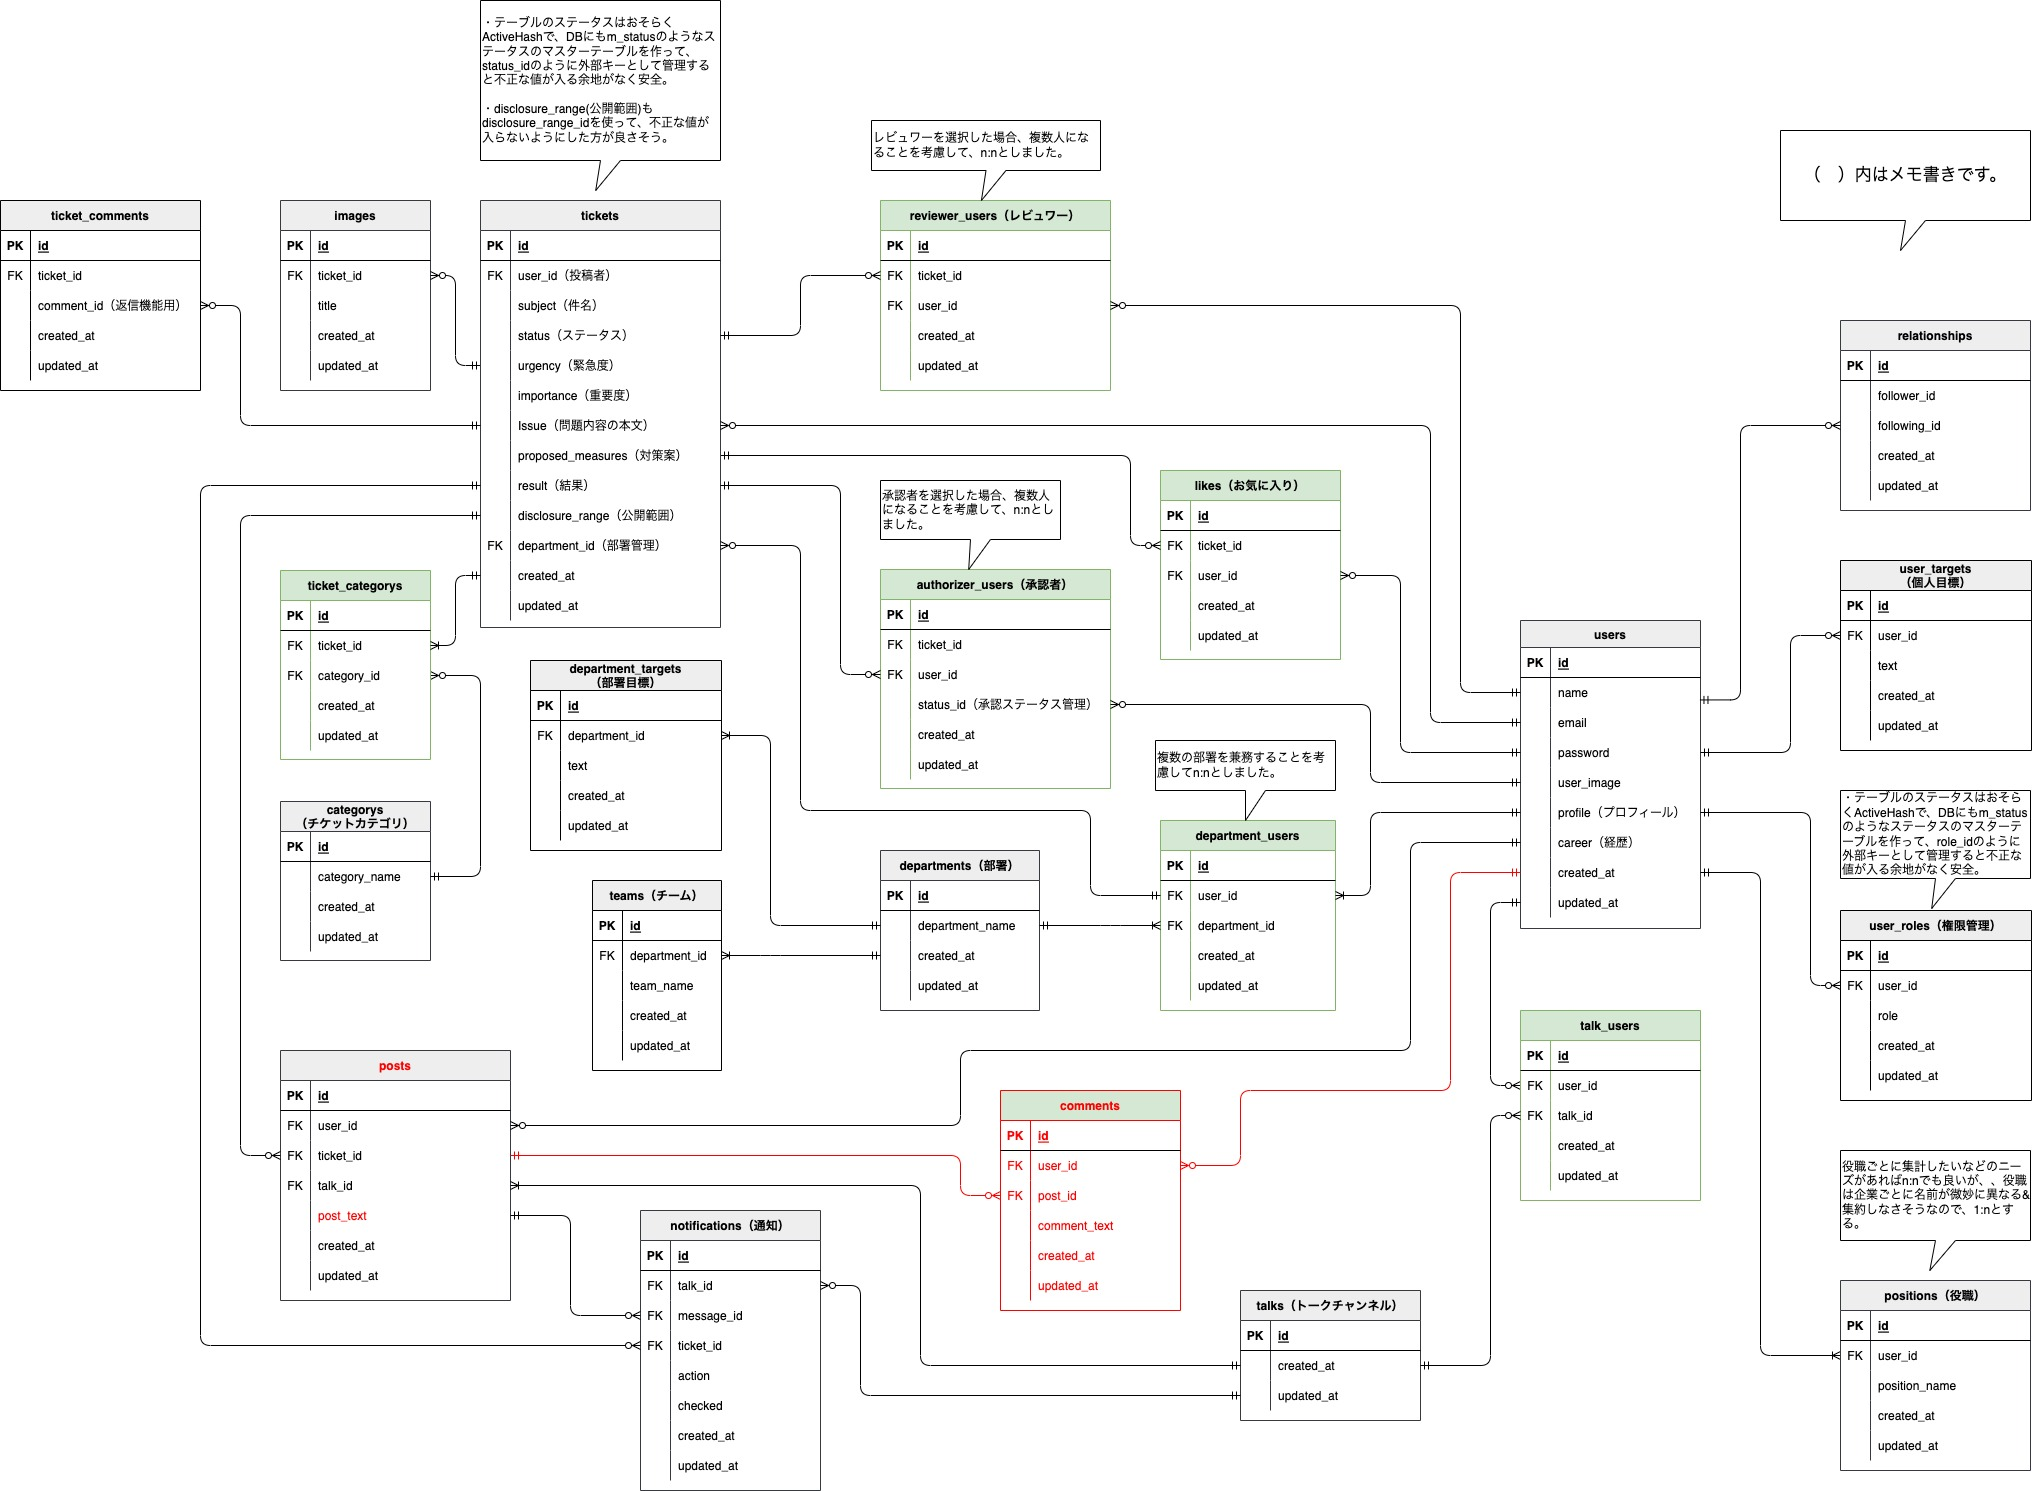
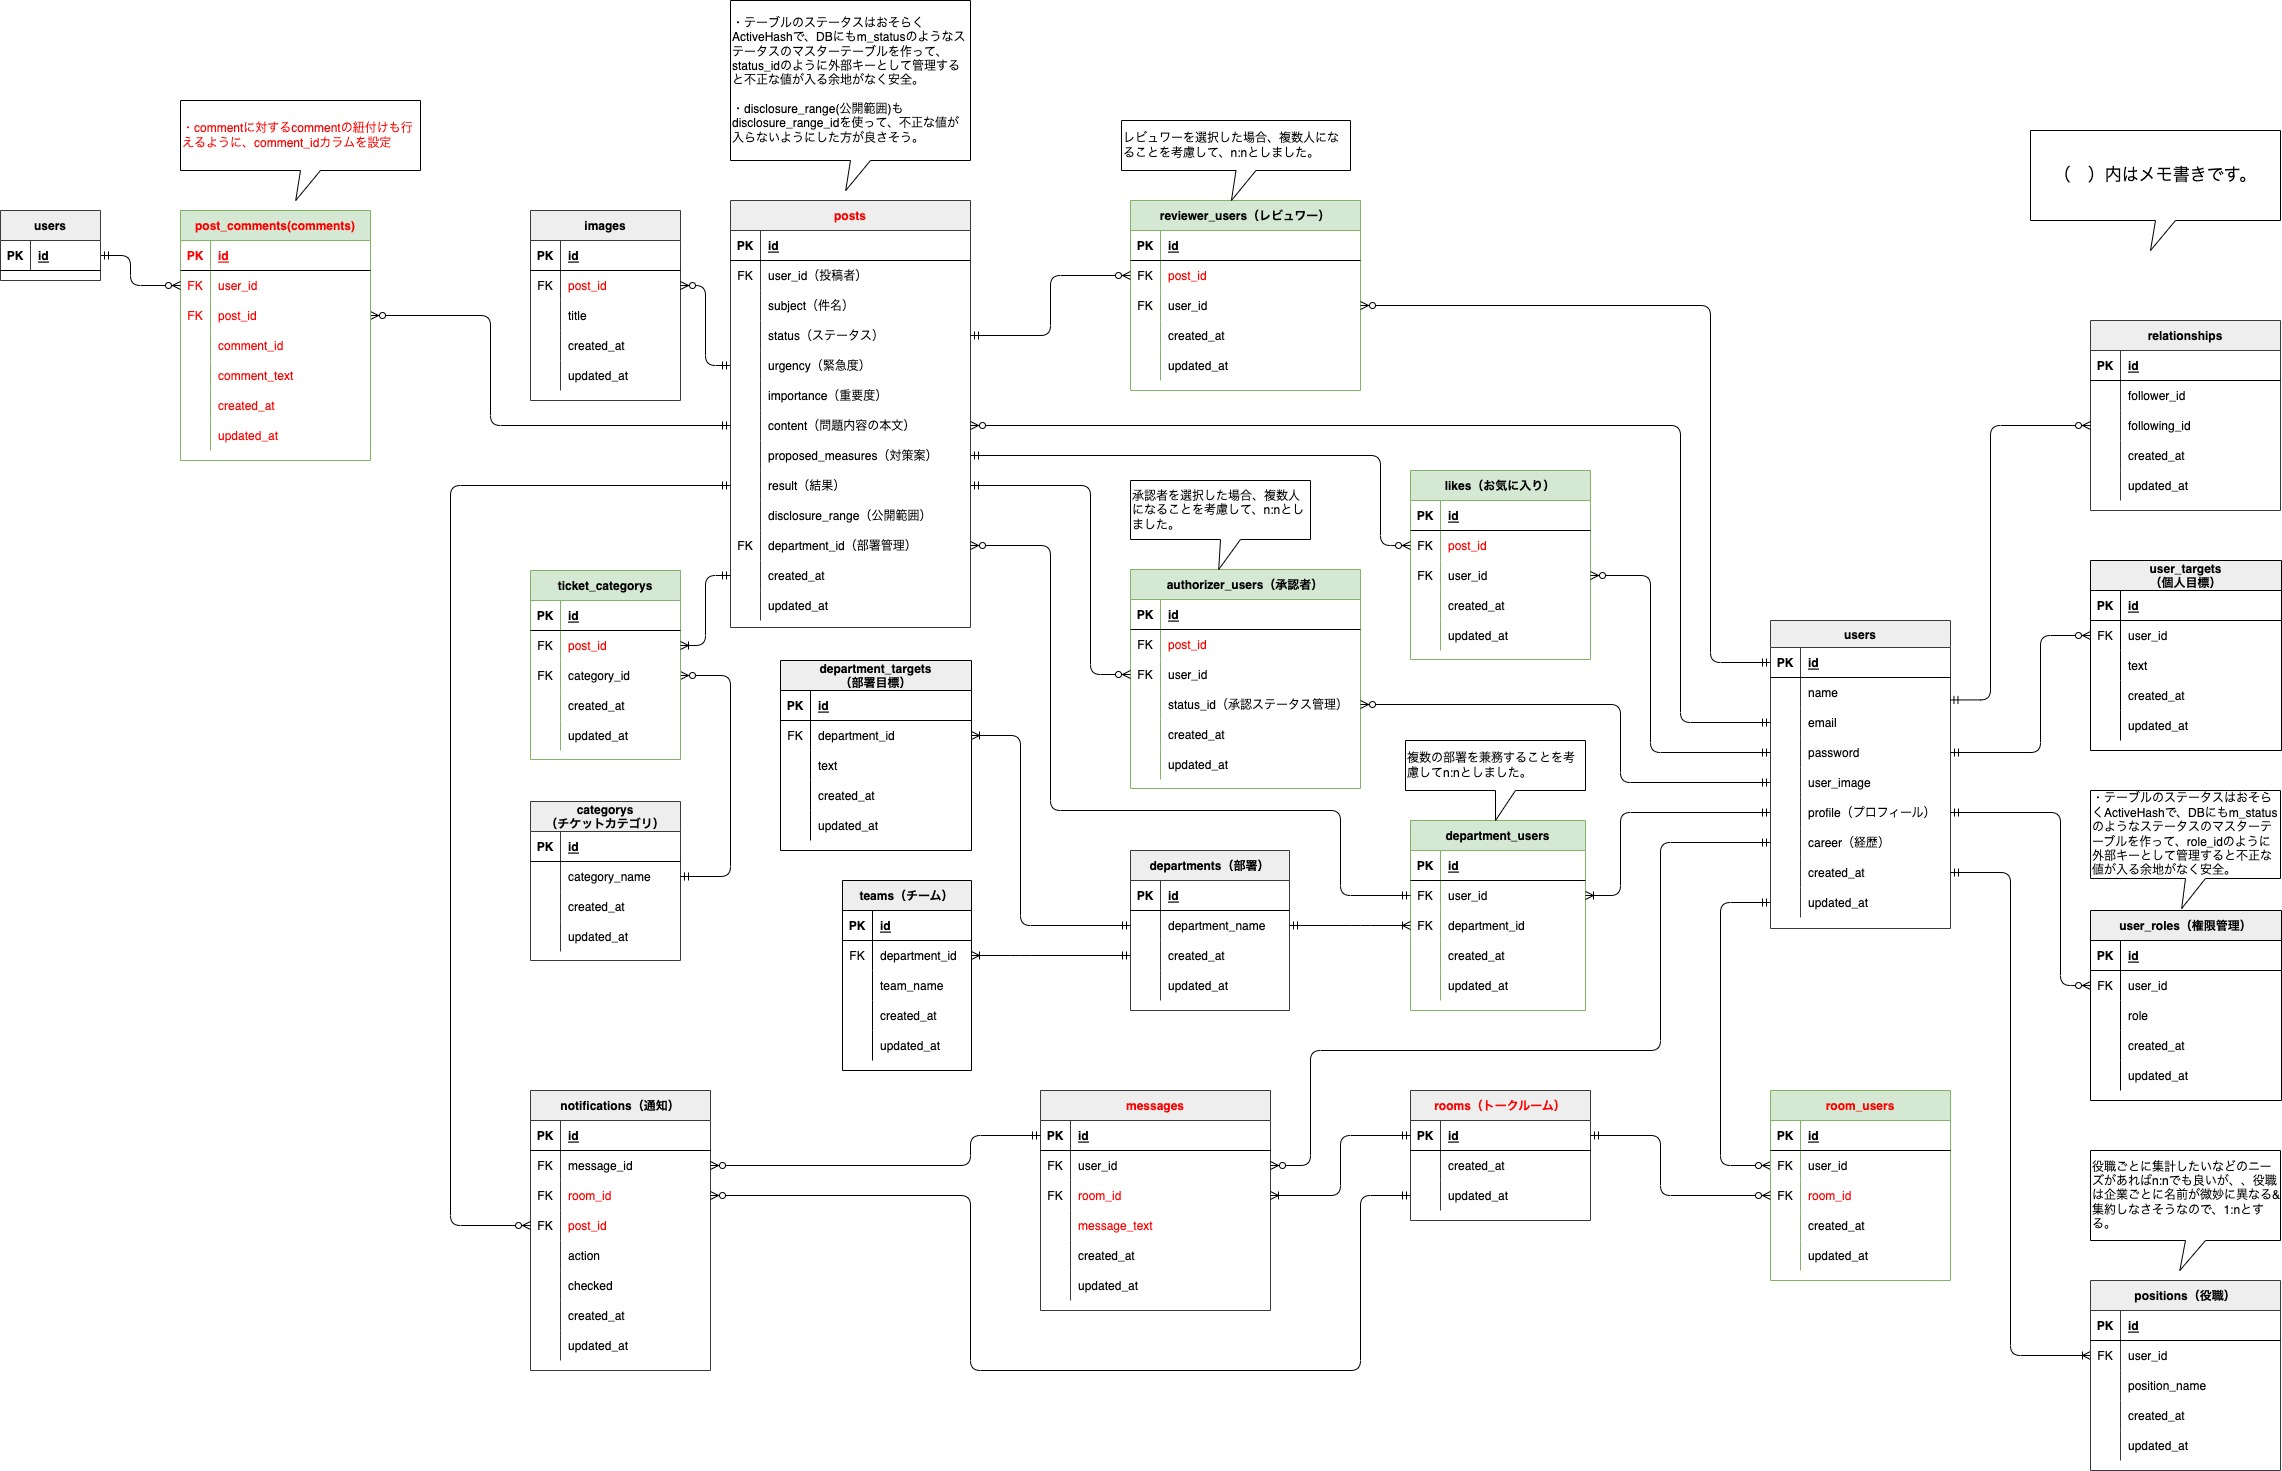
0405_messagesテーブルの作成 #13

diff --git a/db/schema.rb b/db/schema.rb
@@ -10,7 +10,7 @@
 #
 # It's strongly recommended that you check this file into your version control system.
 
-ActiveRecord::Schema.define(version: 2022_04_01_174657) do
+ActiveRecord::Schema.define(version: 2022_04_05_074523) do
 
   create_table "active_storage_attachments", force: :cascade do |t|
     t.string "name", null: false
@@ -66,6 +66,16 @@ ActiveRecord::Schema.define(version: 2022_04_01_174657) do
     t.datetime "updated_at", precision: 6, null: false
   end
 
+  create_table "messages", force: :cascade do |t|
+    t.text "message_text"
+    t.integer "user_id"
+    t.integer "room_id"
+    t.datetime "created_at", precision: 6, null: false
+    t.datetime "updated_at", precision: 6, null: false
+    t.index ["room_id"], name: "index_messages_on_room_id"
+    t.index ["user_id"], name: "index_messages_on_user_id"
+  end
+
   create_table "posts", force: :cascade do |t|
     t.text "content"
     t.datetime "created_at", precision: 6, null: false
@@ -94,4 +104,6 @@ ActiveRecord::Schema.define(version: 2022_04_01_174657) do
   add_foreign_key "active_storage_variant_records", "active_storage_blobs", column: "blob_id"
   add_foreign_key "comments", "posts"
   add_foreign_key "comments", "users"
+  add_foreign_key "messages", "rooms"
+  add_foreign_key "messages", "users"
 end

diff --git a/db/migrate/20220405074523_create_messages.rb b/db/migrate/20220405074523_create_messages.rb
@@ -1,0 +1,11 @@
+class CreateMessages < ActiveRecord::Migration[6.1]
+  def change
+    create_table :messages do |t|
+      t.text :message_text
+      t.references :user, foreign_key: true
+      t.references :room, foreign_key: true
+
+      t.timestamps
+    end
+  end
+end

diff --git a/spec/models/message_spec.rb b/spec/models/message_spec.rb
@@ -1,0 +1,5 @@
+require 'rails_helper'
+
+RSpec.describe Message, type: :model do
+  pending "add some examples to (or delete) #{__FILE__}"
+end

diff --git a/app/models/message.rb b/app/models/message.rb
@@ -1,0 +1,2 @@
+class Message < ApplicationRecord
+end
